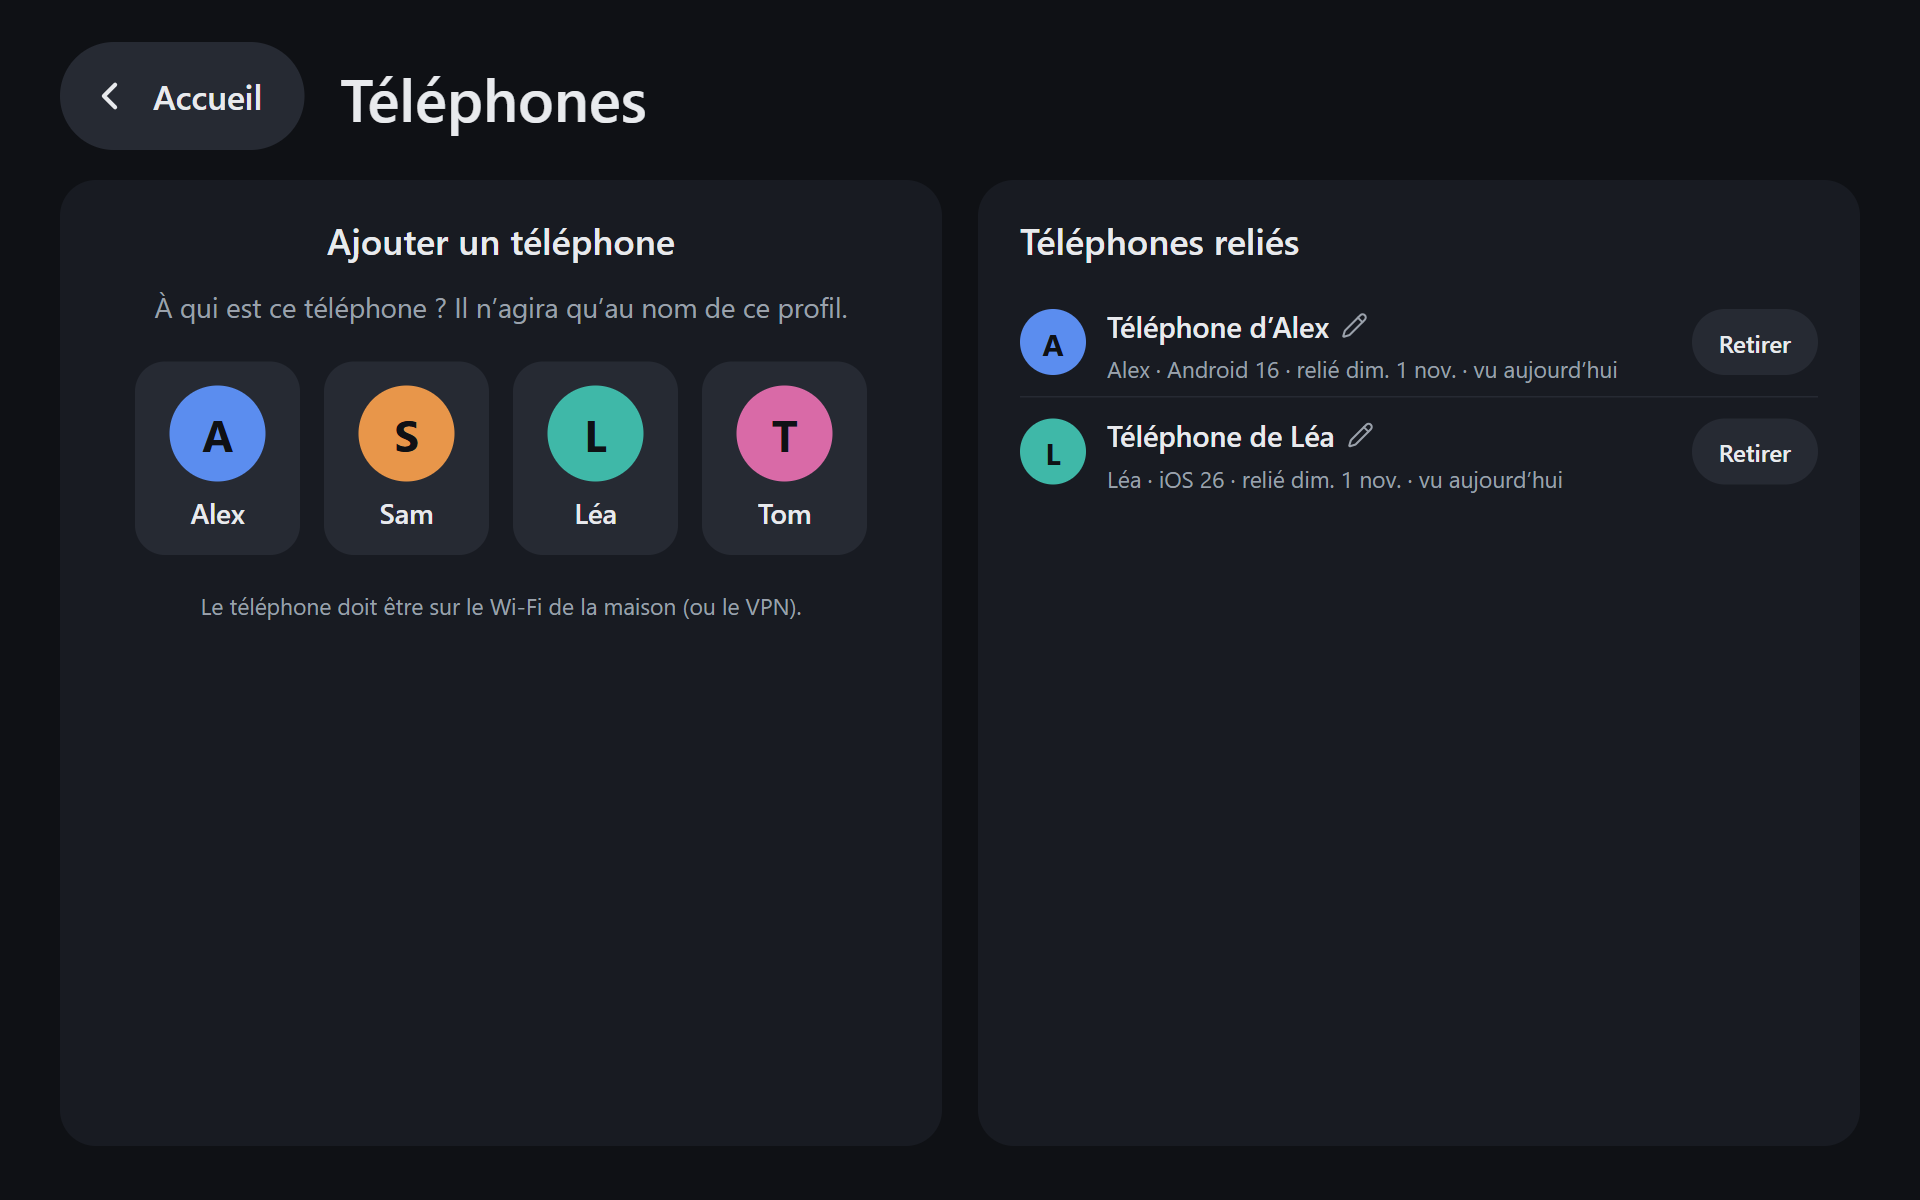
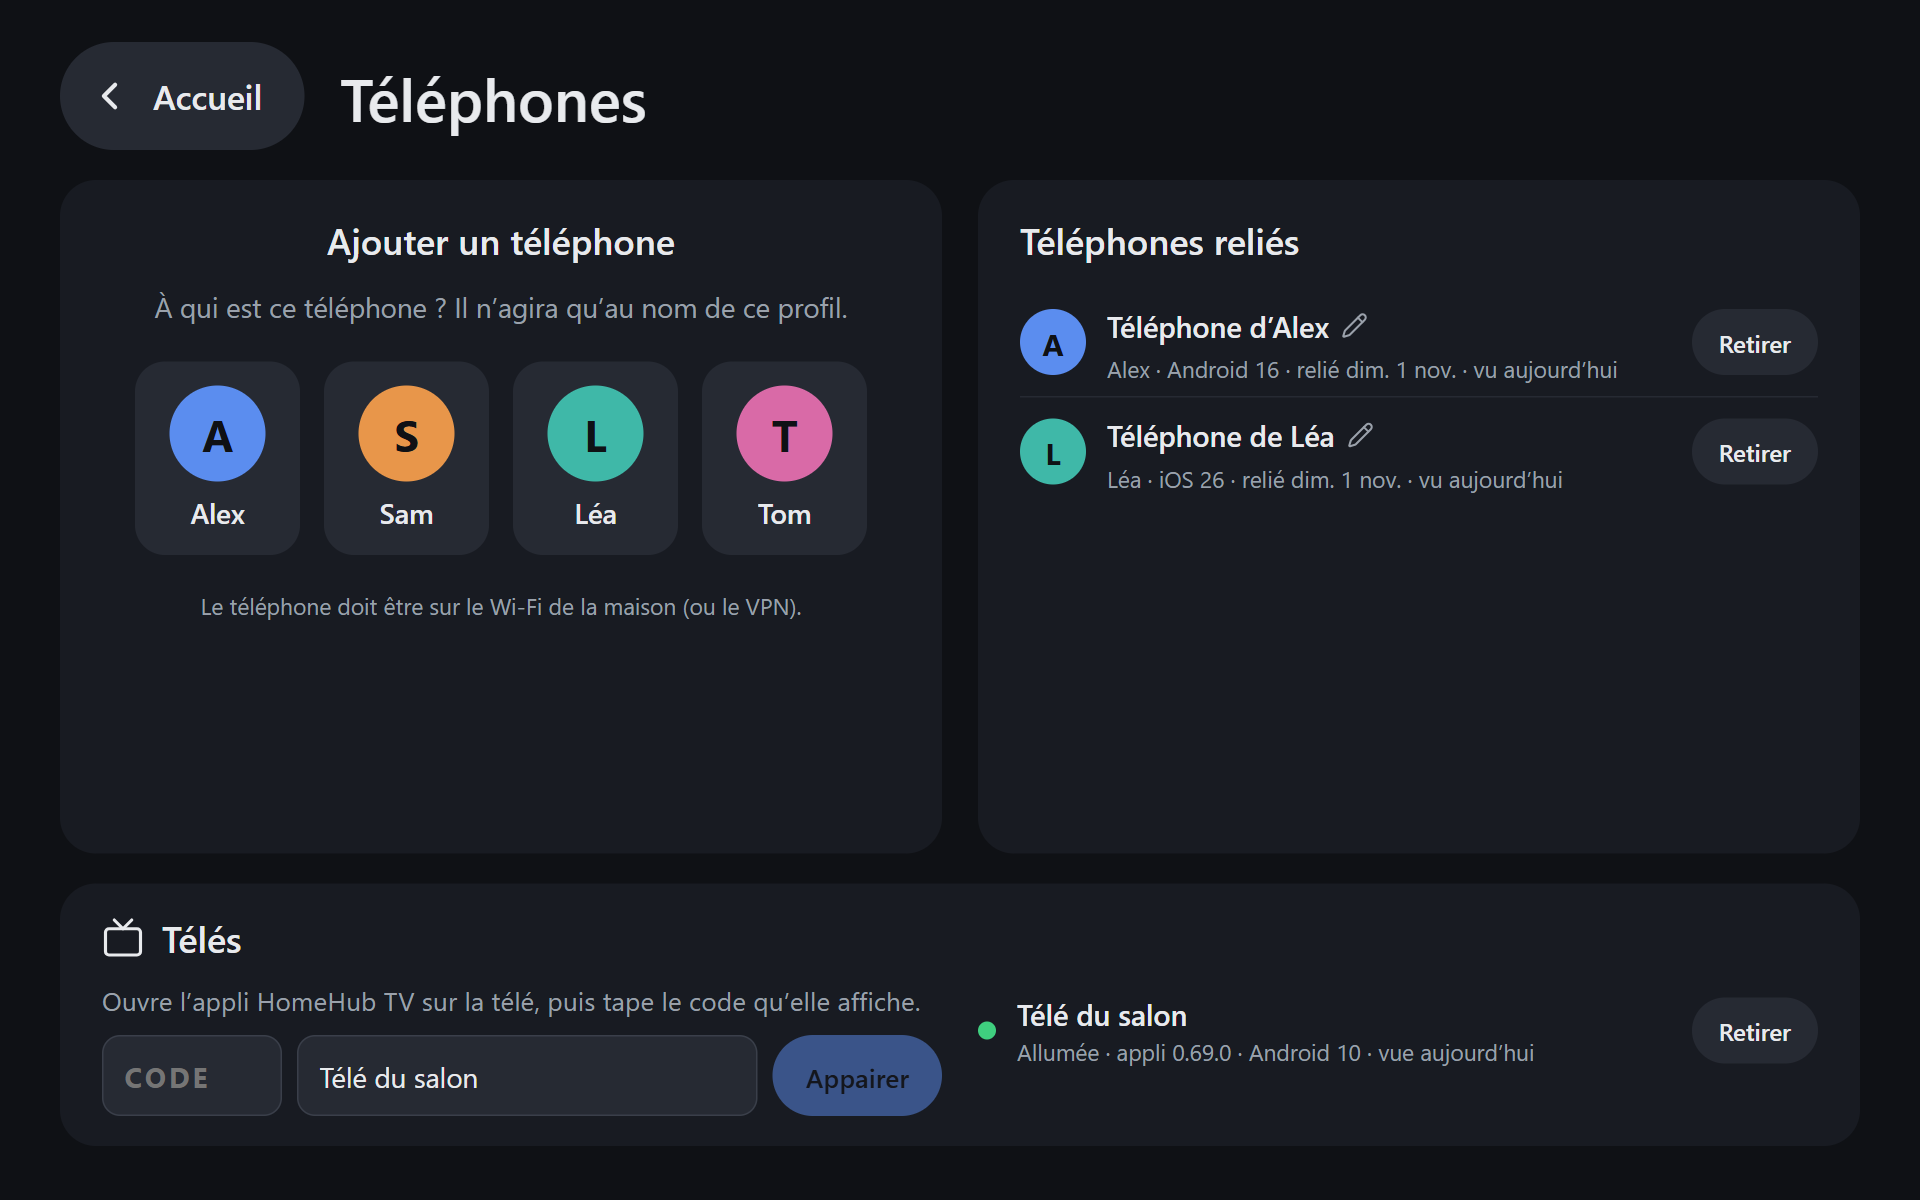
0.69.0 : HomeHub TV, message vocal sur la télé sans couper la vidéo
- Nouvelle appli Android TV « HomeHub TV » (tv-app/, Kotlin, sans bibliothèque), installée par adb : elle reste
  reliée à HomeHub par interrogation longue, sans port ouvert sur la télé.
- Message vocal d'un parent lu par-dessus ce qui passe, le son du programme baissé (focus audio transitoire), avec un
  bandeau « Message d'Alex » en haut à droite ; le téléphone affiche « Message lu sur Télé du salon » dès que la
  lecture commence, ou l'erreur rapportée par la télé.
- Onglet Caméra : les télés appairées passent en tête de « Ta voix sur » ; télé éteinte ou appli fermée signalée.
- Tablette, page Téléphones : section Télés, appairage par le code affiché sur la télé (parent reconnu), état
  allumée ou éteinte, retrait.
- Serveur : télés dans screens.json (jeton haché, à part des téléphones), droit access.screen, routes /api/screen et
  /api/screens, version du protocole (426 si l'appli ne correspond pas).
- Monde fictif : fausse appli HomeHub TV et maquette du bandeau ; plan de l'appli dans docs/appli-tele.md.

diff --git a/server/screen-api.test.ts b/server/screen-api.test.ts
@@ -80,8 +80,16 @@ async function setup({ talk = true, reportMs = 2_000 } = {}) {
     return { token: state.token, id: state.screen.id };
   }
   const listen = (token: string, after = '') => call('GET', `/screen/events?after=${after}`, { from: TV, token, headers: PROTOCOL });
+  /** La télé redemande jusqu'à recevoir un événement (l'envoi du téléphone peut arriver après une attente vide). */
+  async function nextEvents(token: string, after: string) {
+    for (let i = 0; i < 100; i++) {
+      const found = (await (await listen(token, after)).json()) as ScreenEvents;
+      if (found.events.length) return found;
+    }
+    throw new Error('aucun événement reçu');
+  }
 
-  return { call, tablet, pairTv, listen, alex: await phone('alex'), lea: await phone('lea'), advance: (ms: number) => (now += ms) };
+  return { call, tablet, pairTv, listen, nextEvents, alex: await phone('alex'), lea: await phone('lea'), advance: (ms: number) => (now += ms) };
 }
 
 const audio = (type = 'audio/webm') => ({ raw: new Uint8Array([1, 2, 3, 4]), headers: { 'Content-Type': type } });
@@ -142,13 +150,13 @@ describe('API HomeHub TV : droits de la télé', () => {
 
 describe('API HomeHub TV : message vocal', () => {
   it('le téléphone d’un parent envoie, la télé télécharge, lit et rend compte', async () => {
-    const { call, pairTv, listen, alex } = await setup();
+    const { call, pairTv, listen, nextEvents, alex } = await setup();
     const tv = await pairTv();
     await listen(tv.token);
     expect(await (await call('GET', '/screens/targets', { token: alex })).json()).toEqual([{ id: tv.id, name: 'Télé du salon', online: true }]);
 
     const sending = call('POST', `/screens/${tv.id}/voice`, { token: alex, ...audio('audio/webm;codecs=opus') });
-    const { events } = (await (await listen(tv.token, '0')).json()) as ScreenEvents;
+    const { events } = await nextEvents(tv.token, '0');
     expect(events).toEqual([expect.objectContaining({ seq: 1, kind: 'voice', title: 'Message d’Alex', contentType: 'audio/webm' })]);
     const event = events[0]!;
     expect(event.audio).toMatch(/^\/api\/screen\/clips\/[\w-]+\.webm$/);
@@ -163,11 +171,11 @@ describe('API HomeHub TV : message vocal', () => {
   });
 
   it('échec rapporté par la télé, ou pas de nouvelles : 502 avec la raison', async () => {
-    const { call, pairTv, listen, alex } = await setup({ reportMs: 50 });
+    const { call, pairTv, listen, nextEvents, alex } = await setup({ reportMs: 50 });
     const tv = await pairTv();
     await listen(tv.token);
     const sending = call('POST', `/screens/${tv.id}/voice`, { token: alex, ...audio() });
-    const { events } = (await (await listen(tv.token, '0')).json()) as ScreenEvents;
+    const { events } = await nextEvents(tv.token, '0');
     await call('POST', `/screen/events/${events[0]!.id}/report`, { from: TV, token: tv.token, headers: PROTOCOL, body: { ok: false, reason: 'Format illisible' } });
     expect(await (await sending).json()).toEqual({ error: 'Télé du salon : Format illisible' });
 

diff --git a/TODO.md b/TODO.md
@@ -262,8 +262,10 @@ personne depuis son propre téléphone.
       (0.69.0) : appli `tv-app/` (Kotlin, sans bibliothèque), appairage par code tapé sur la tablette (Téléphones ›
       Télés), interrogation longue, compte rendu au téléphone, télé absente signalée ; destination « Télé du salon »
       dans l'onglet Caméra des parents ; fausse appli dans le monde fictif.
-- [ ] 1 bis. À vérifier sur la vraie télé : le son baisse-t-il sous Netflix, YouTube, la télé en direct (tuner, HDMI) ?
-      Sinon, baisser le volume nous-mêmes le temps du message. Appli vivante après veille et redémarrage ?
+- [x] 1 bis. Vérifié sur la vraie télé (Android 11, avant publication, contre le monde fictif par `adb reverse`) :
+      appairage par code, message lu en 0,2 à 0,3 s, son baissé puis rendu sans pause sous YouTube et sous l'appli
+      TV de la box (le système baisse le son lui-même, `LOSS_TRANSIENT_CAN_DUCK`), bandeau affiché.
+- [ ] 1 ter. À vérifier après déploiement : appli vivante après veille et redémarrage de la télé ; Netflix.
 - [ ] 2. Message écrit en bandeau, à la place de l'appli tierce « Notifications for Android TV » (0.67.0).
 - [ ] 3. Alerte du minuteur de cuisine sur la télé.
 - [ ] 4. Alerte du bus du matin (« Bus dans 5 min »).

diff --git a/docs/ecrans.md b/docs/ecrans.md
@@ -1,6 +1,6 @@
 # Écrans
 
-Captures de HomeHub 0.68.2, avec des **données fictives** : famille de test (Alex, Sam, Léa, Tom), agenda d'exemple,
+Captures de HomeHub 0.69.0, avec des **données fictives** : famille de test (Alex, Sam, Léa, Tom), agenda d'exemple,
 faux ÉcoleDirecte, faux temps réel Irigo, produits et marques inventés à la place d'Open Food Facts, recettes inventées sur un faux site de cuisine, fiches produit inventées d'une fausse enseigne de drive, calendrier
 scolaire d'exemple (zone B), horloge arrêtée le jeudi 5 novembre 2026 à 07:35 (le 11 novembre et en décembre pour les fériés et les vacances). La météo est réelle,
 celle du jour de la capture.
